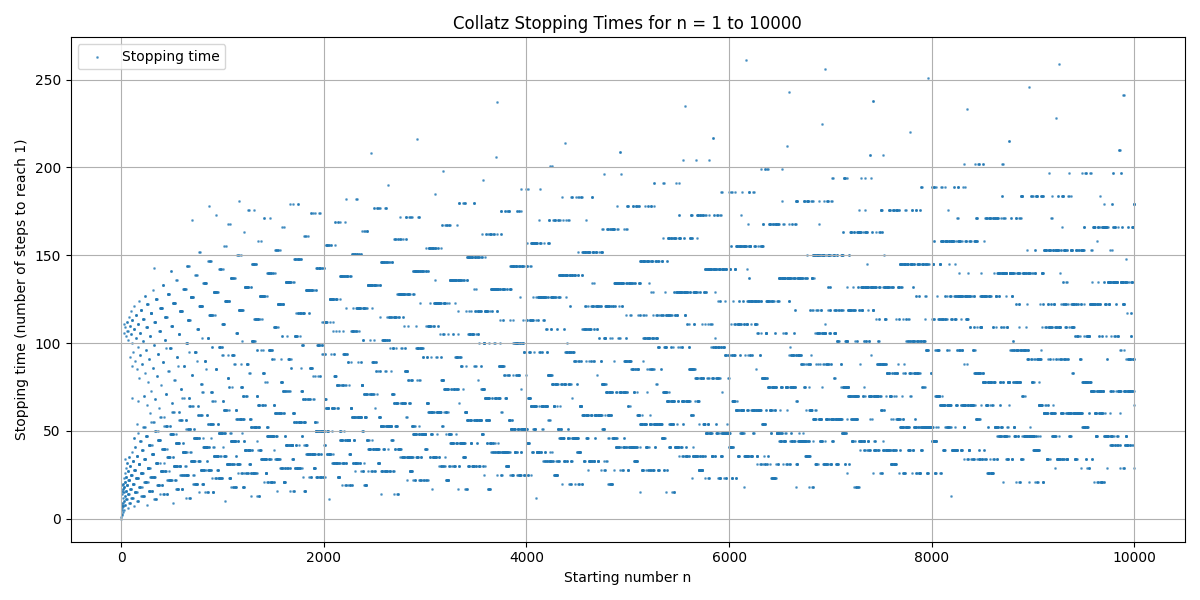
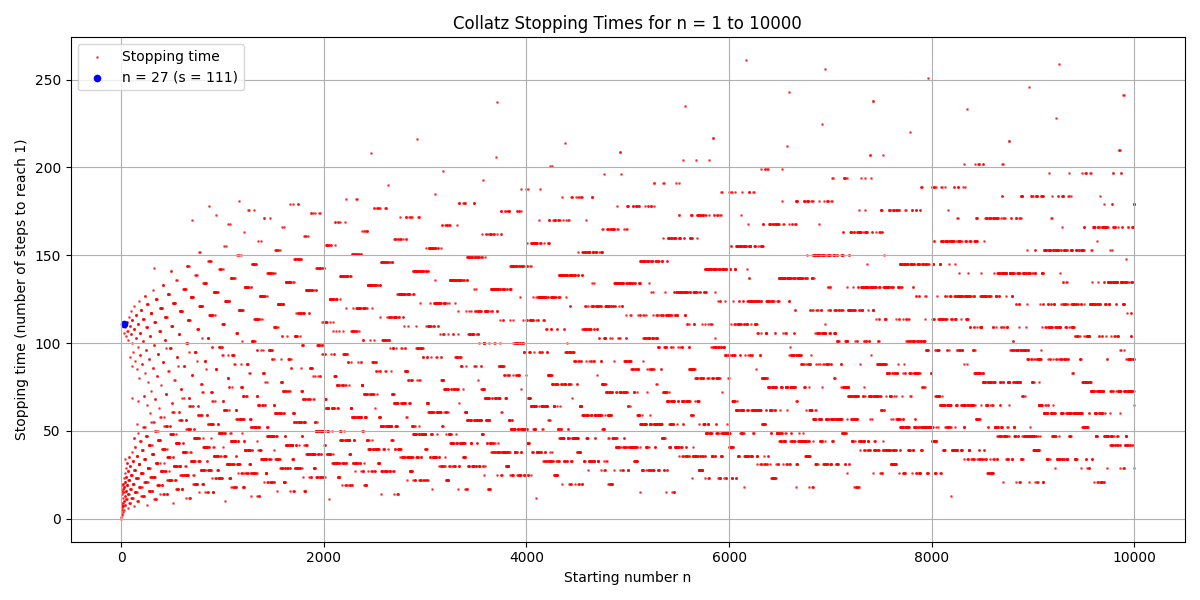
modified:   collatz_stats.py modified:   stopping_time.png

diff --git a/collatz_stats.py b/collatz_stats.py
@@ -27,11 +27,11 @@ def compute_stopping_times(max_n):
 
 def plot_stopping_times(xs, ys):
     plt.figure(figsize=(12, 6))
-    plt.scatter(xs, ys, s=1, alpha=0.6, label='Stopping time')
+    plt.scatter(xs, ys, s=1, alpha=0.6, color='red', label='Stopping time')
     
     # Highlight n = 27
     n_27_index = np.where(xs == 27)[0][0]
-    plt.scatter(xs[n_27_index], ys[n_27_index], color='red', s=40, label='n = 27 (s = {})'.format(ys[n_27_index]))
+    plt.scatter(xs[n_27_index], ys[n_27_index], color='blue', s=20, label='n = 27 (s = {})'.format(ys[n_27_index]))
 
     plt.title('Collatz Stopping Times for n = 1 to {}'.format(xs[-1]))
     plt.xlabel('Starting number n')
